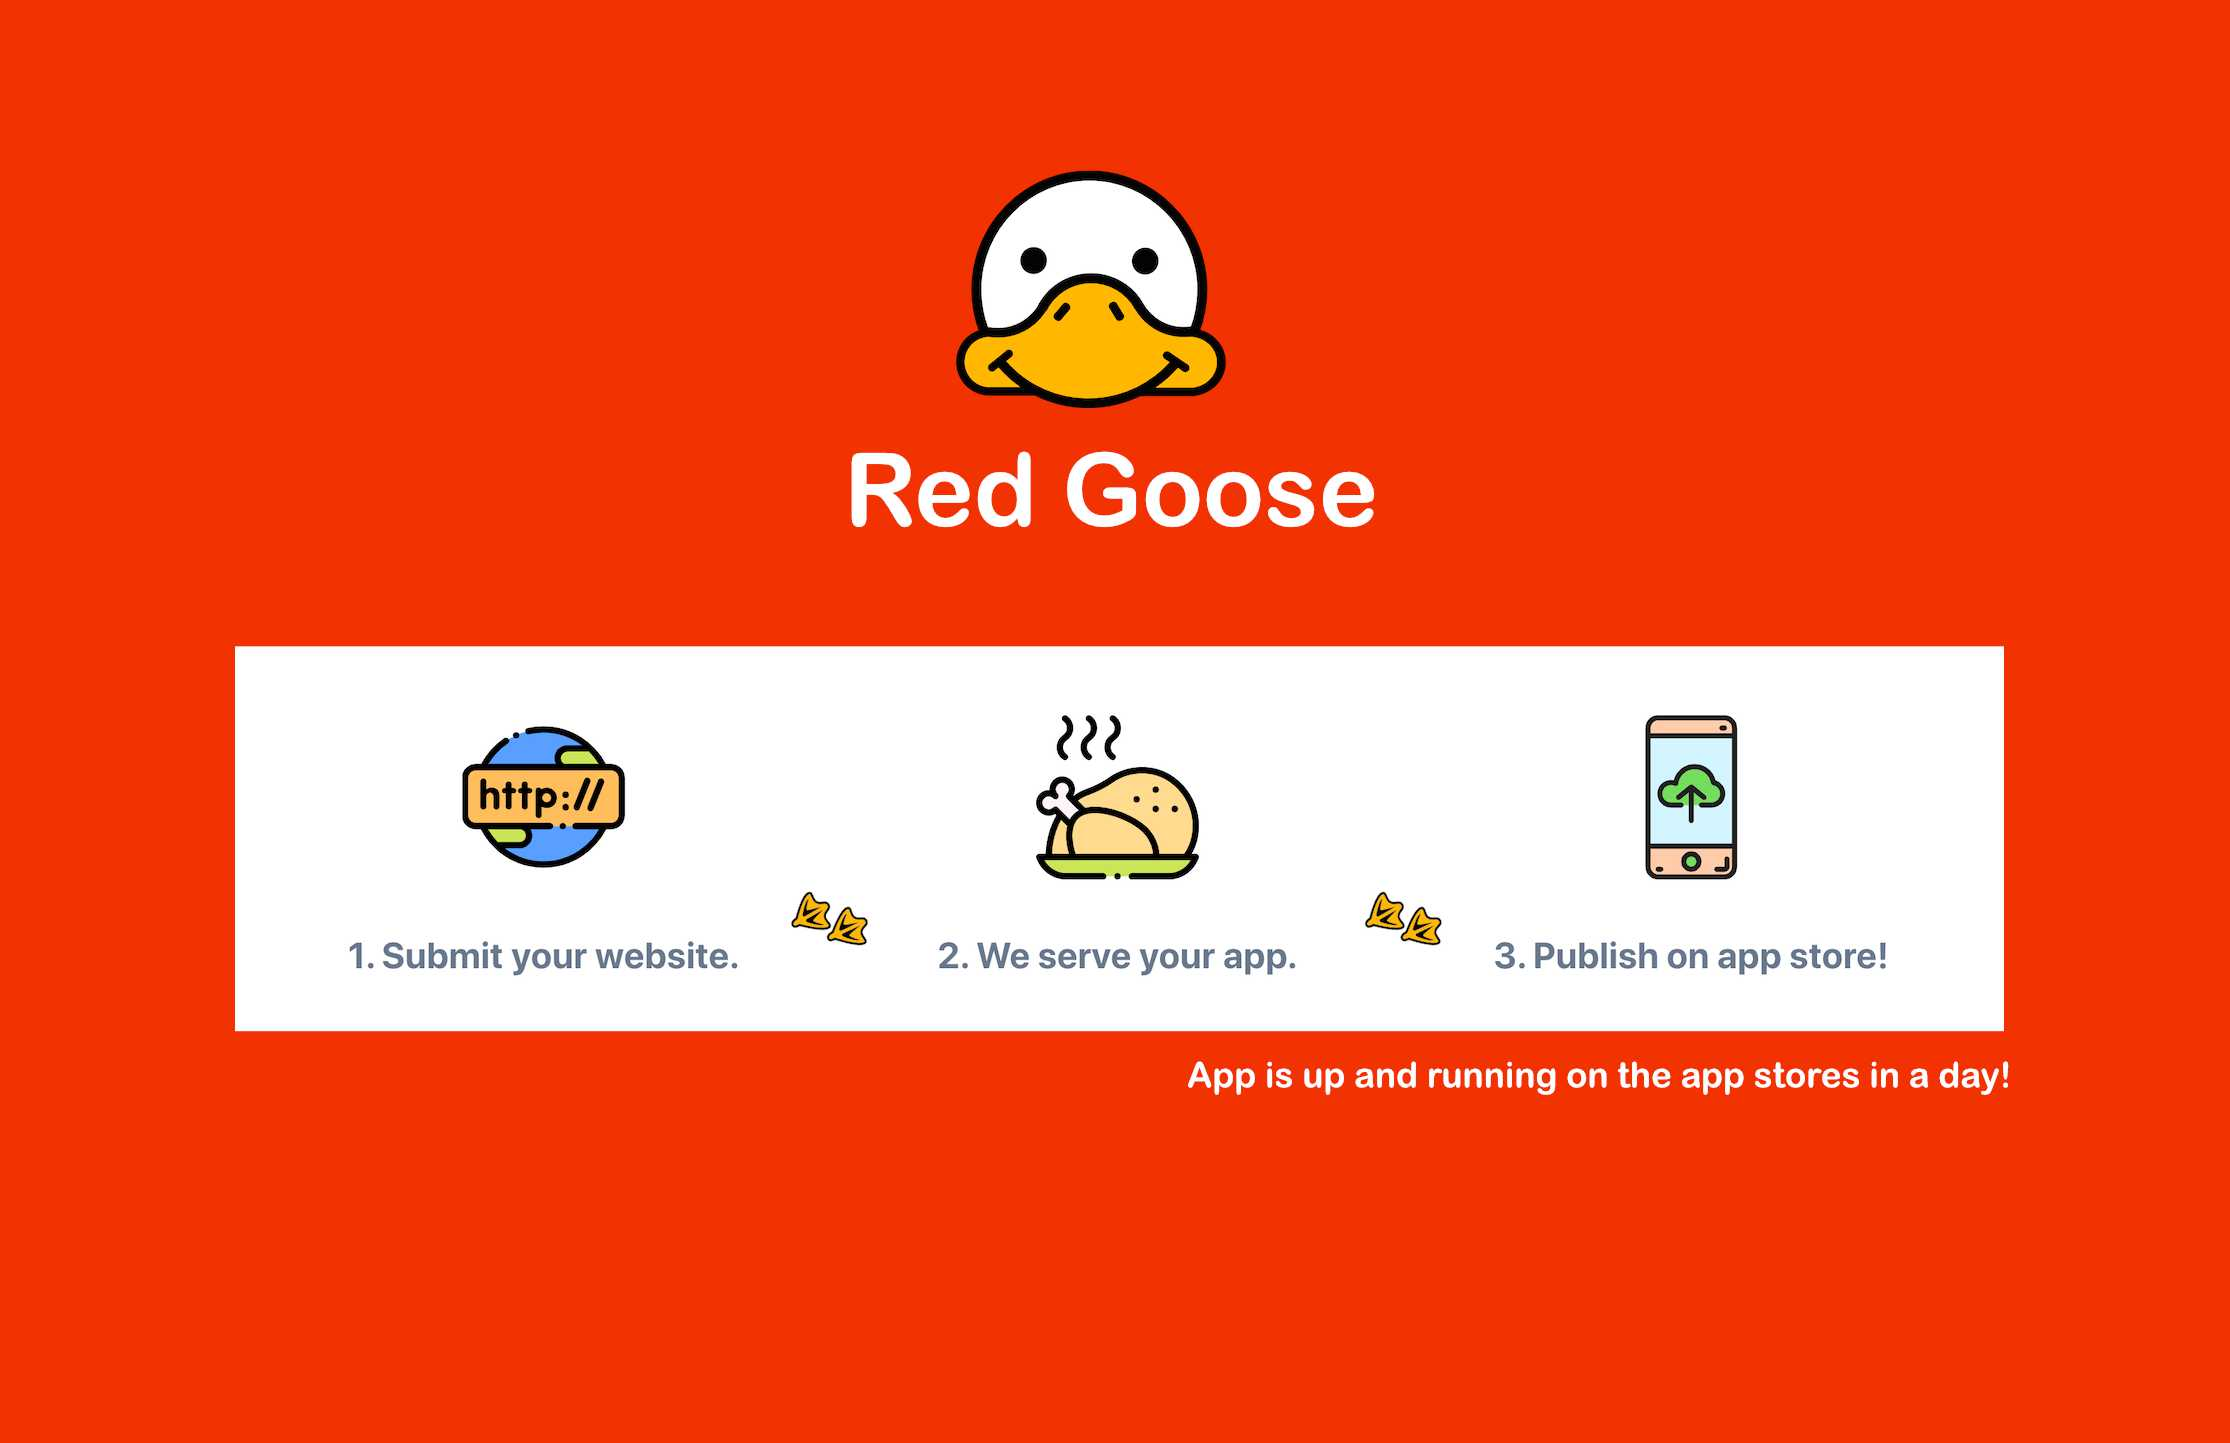
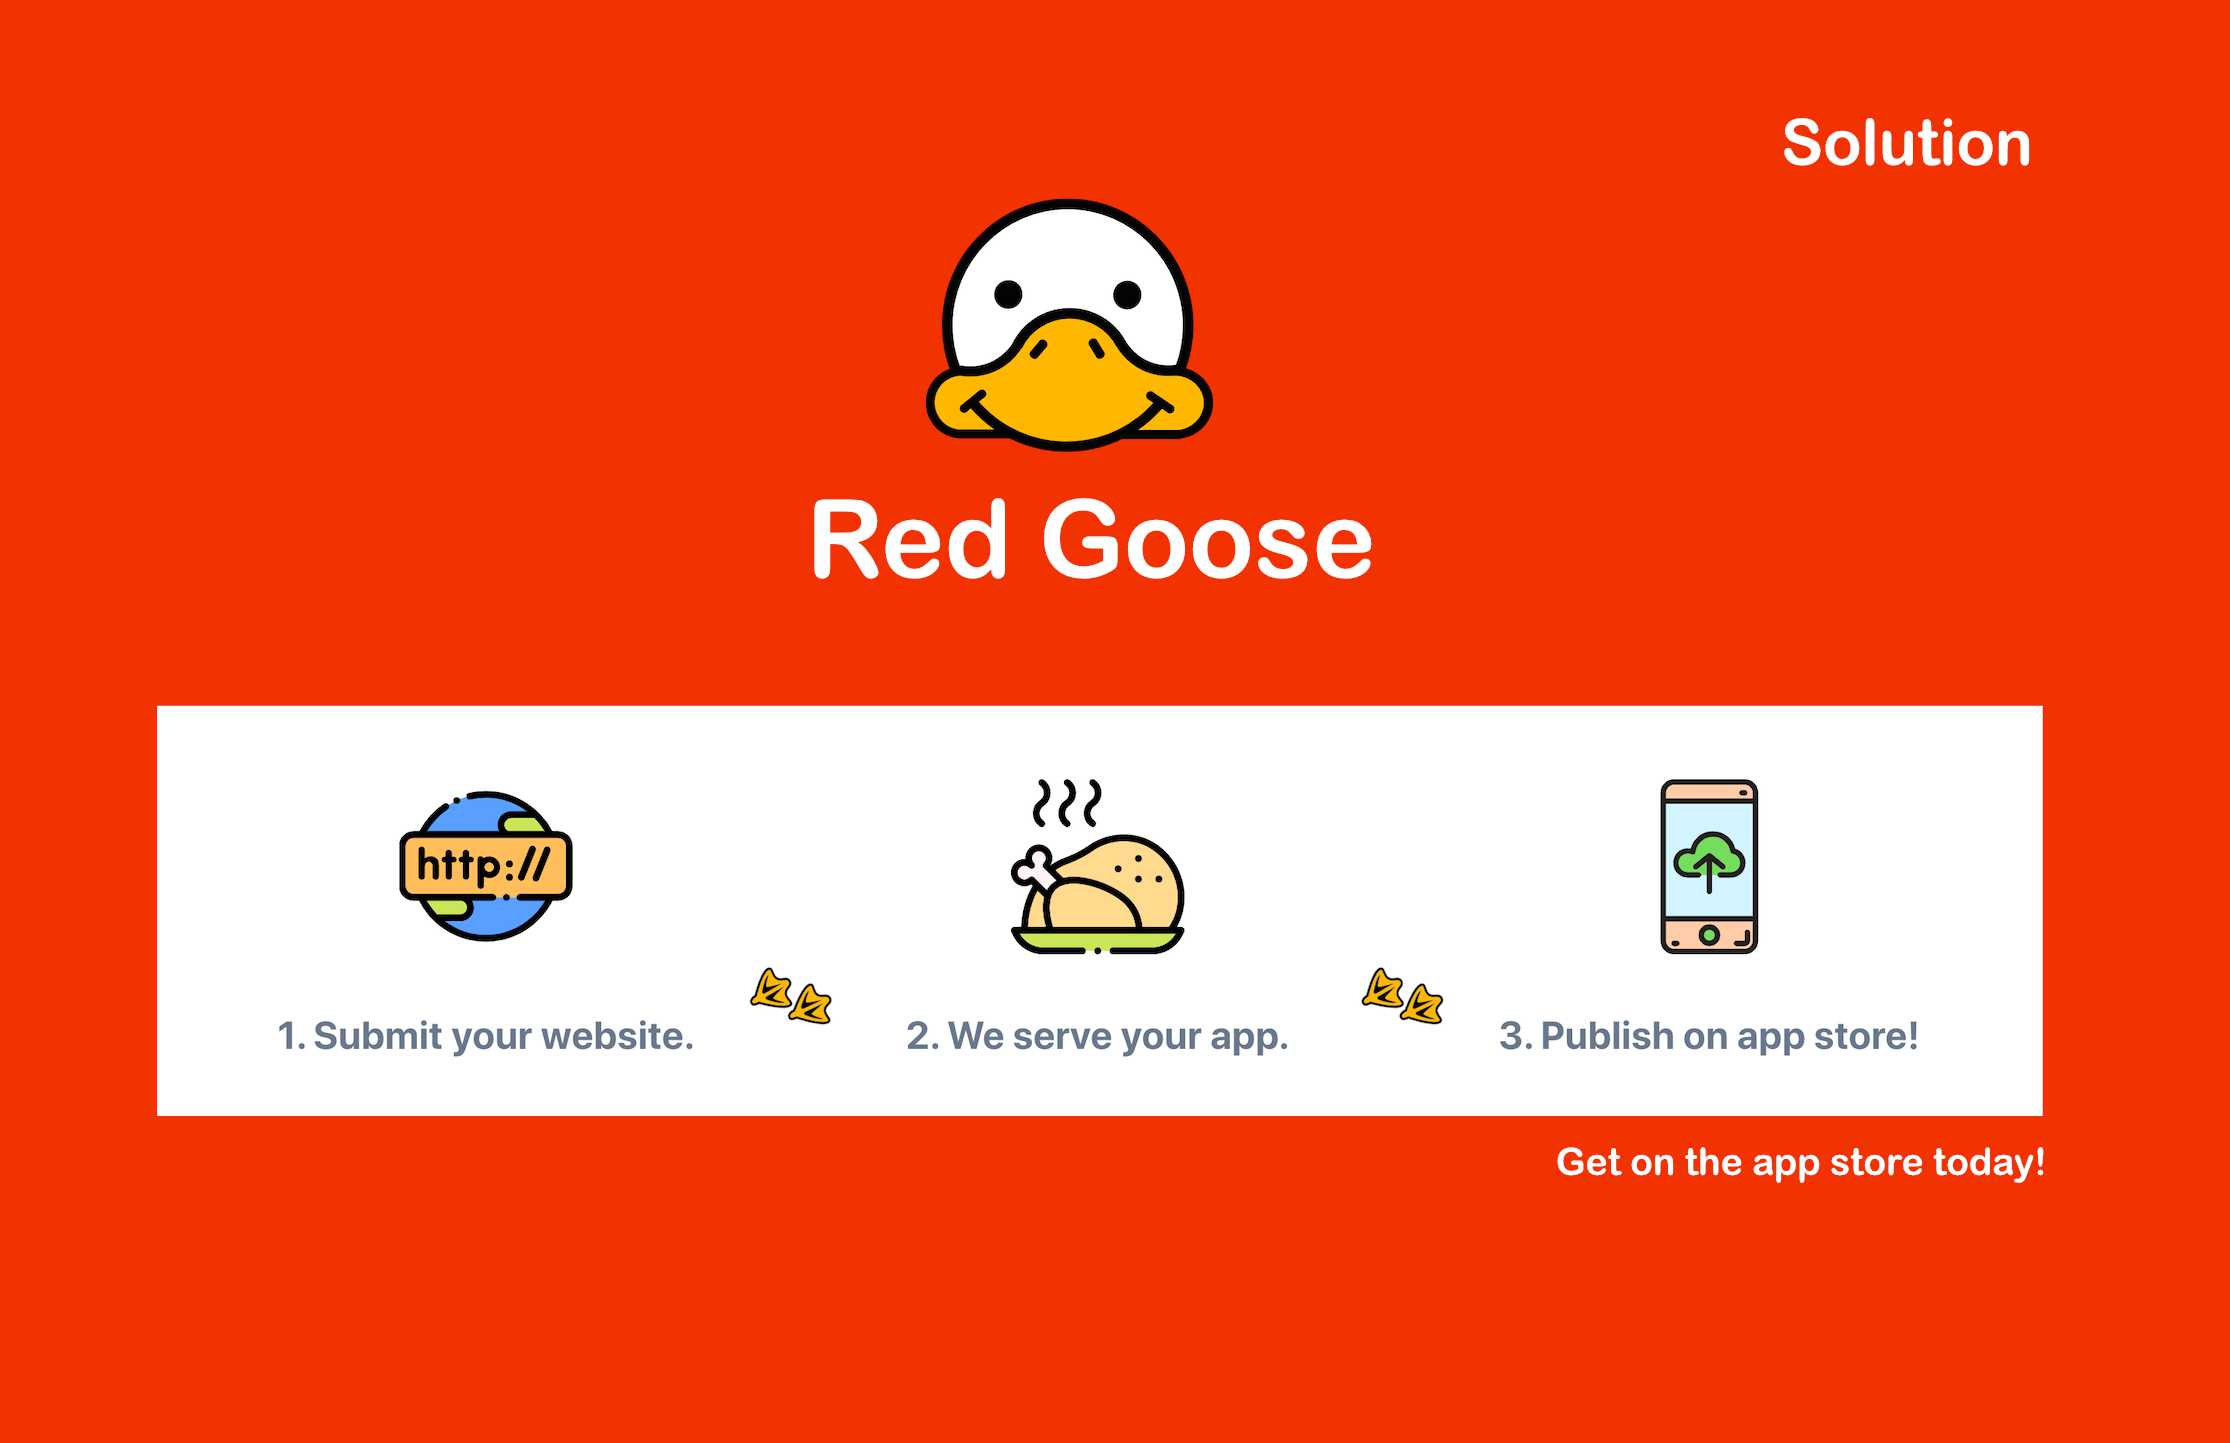
Solution update

Changed region(s): [[0.0619, 0.4366, 0.9283, 0.842], [0.3404, 0.0936, 0.6188, 0.4054], [0.8045, 0.0624, 0.9283, 0.1247]]

diff --git a/manuscript/page-6/style.css b/manuscript/page-6/style.css
@@ -1,7 +1,7 @@
 body {
   background-color: #8066ff;
   color: white;
-  background-image: url(https://raw.githubusercontent.com/marvindanig/elevator/master/assets/images/features.jpg);
+  background-image: url(https://raw.githubusercontent.com/marvindanig/red-goose-deck/master/assets/images/solution.jpg);
   background-size: 200% 100%;
   background-position: center left; 
 }

diff --git a/manuscript/page-4/style.css b/manuscript/page-4/style.css
@@ -1,7 +1,7 @@
 body {
   background-color: #8066ff;
   color: white;
-  background-image: url(https://raw.githubusercontent.com/marvindanig/elevator/master/assets/images/product.jpg);
+  background-image: url(https://raw.githubusercontent.com/marvindanig/red-goose-deck/master/assets/images/solution.jpg);
   background-size: 200% 100%;
   background-position: center left; 
 }

diff --git a/manuscript/page-5/style.css b/manuscript/page-5/style.css
@@ -1,7 +1,7 @@
 body {
   background-color: #8066ff;
   color: white;
-  background-image: url(https://raw.githubusercontent.com/marvindanig/elevator/master/assets/images/product.jpg);
+  background-image: url(https://raw.githubusercontent.com/marvindanig/red-goose-deck/master/assets/images/solution.jpg);
   background-size: 200% 100%;
   background-position: center right;
 }
